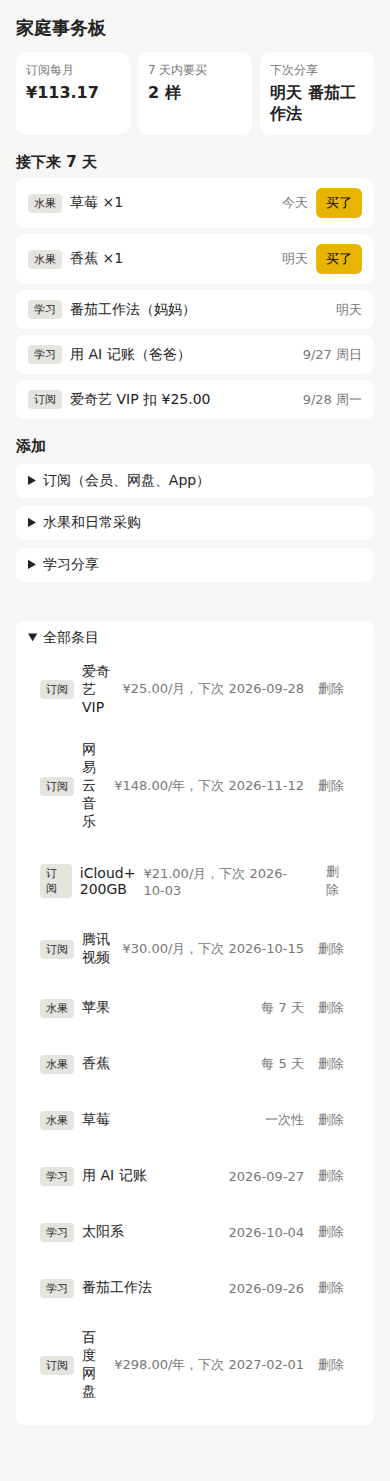
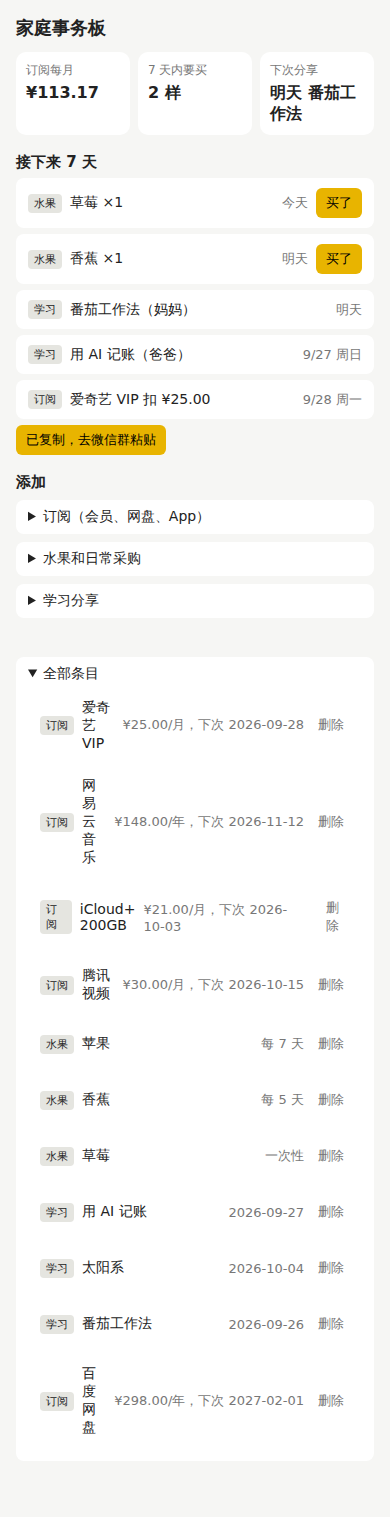
feat(app): share the shopping list to the family chat instead of a claim button
A two-browser experiment showed each phone keeps its own localStorage,
so a claim button could never be seen by the other phone. The family
already shares a chat group, so the page now copies a ready-to-paste
'I am buying' message, with a select-to-copy fallback when the page
is opened over LAN http and has no clipboard API.

Claude-Session: https://claude.ai/code/session_01S12fALyHBVYc1Msq9vQCZa

diff --git a/app/app.js b/app/app.js
@@ -1,5 +1,5 @@
 // 浏览器这一层：读写 localStorage、解析表单、渲染。所有输入校验都放在这里，domain.js 只收合法数据。
-import { emptyState, apply, agenda, summary, todayISO, addDays, nextRenewal, yuan } from './domain.js';
+import { emptyState, apply, agenda, summary, todayISO, addDays, nextRenewal, yuan, shoppingMessage } from './domain.js';
 
 const KEY = 'family-agenda:v1';
 const $ = sel => document.querySelector(sel);
@@ -66,6 +66,8 @@ function render() {
     ),
   );
   $('[data-testid=empty]').hidden = state.items.length > 0;
+  $('[data-testid=share]').hidden = shoppingMessage(state, today) === null;
+  $('[data-testid=share]').textContent = '我去买，复制到家庭群';
 
   $('[data-testid=all-items]').replaceChildren(
     ...state.items.map(it => {
@@ -110,6 +112,21 @@ document.querySelectorAll('form[data-kind]').forEach(form => {
     }
   });
 });
+
+// 手机通过局域网 http 打开时不是安全上下文，没有 navigator.clipboard，这时把文字摆出来让人长按复制。
+$('[data-testid=share]').onclick = async () => {
+  const text = shoppingMessage(state, todayISO());
+  const box = $('[data-testid=share-text]');
+  try {
+    await navigator.clipboard.writeText(text);
+    $('[data-testid=share]').textContent = '已复制，去微信群粘贴';
+    box.hidden = true;
+  } catch {
+    box.value = text;
+    box.hidden = false;
+    box.select();
+  }
+};
 
 $('[data-testid=seed]').onclick = () => {
   const t = todayISO();

diff --git a/test/domain.test.js b/test/domain.test.js
@@ -1,6 +1,6 @@
 import { test } from 'node:test';
 import assert from 'node:assert/strict';
-import { emptyState, apply, summary, agenda, addMonths, nextRenewal, todayISO } from '../app/domain.js';
+import { emptyState, apply, summary, agenda, addMonths, nextRenewal, todayISO, shoppingMessage } from '../app/domain.js';
 
 const TODAY = '2026-09-25';
 
@@ -74,6 +74,12 @@ test('删除条目后它从日程和总额里消失', () => {
   const s = apply(load(family()), { type: 'remove', id: 's1' });
   assert.equal(summary(s, TODAY).monthlyCents, 8833 - 2500);
   assert.ok(!agenda(s, TODAY).some(r => r.id === 's1'));
+});
+
+test('P7 发到家庭群的采购消息列出 7 天内要买的东西，买过的不在里面', () => {
+  const s = apply(load(family()), { type: 'bought', id: 'p1', on: TODAY });
+  assert.equal(shoppingMessage(s, TODAY), '【我去买】9/25\n· 草莓 ×1\n· 香蕉 ×1');
+  assert.equal(shoppingMessage(emptyState(), TODAY), null);
 });
 
 test('P6 北京时间早上 7 点，今天是本地日期而不是 UTC 的前一天', () => {

diff --git a/app/index.html b/app/index.html
@@ -28,6 +28,7 @@
   label { display: grid; gap: 2px; font-size: 12px; color: var(--muted); }
   input, select { font: inherit; font-size: 15px; padding: 7px; border: 1px solid var(--line); border-radius: 6px; background: var(--bg); color: var(--ink); }
   .empty { color: var(--muted); font-size: 14px; }
+  textarea { width: 100%; margin-top: 8px; font: inherit; font-size: 14px; padding: 8px; border-radius: 6px; border: 1px solid var(--line); background: var(--card); color: var(--ink); }
   .error { color: #c33; font-size: 13px; min-height: 1em; }
 </style>
 </head>
@@ -43,6 +44,8 @@
 
   <h2>接下来 7 天</h2>
   <ul data-testid="agenda"></ul>
+  <button data-testid="share" hidden>我去买，复制到家庭群</button>
+  <textarea data-testid="share-text" readonly hidden rows="5"></textarea>
   <p class="empty" data-testid="empty" hidden>
     还没有任何条目。<button data-testid="seed">载入示例数据</button>
   </p>

diff --git a/app/domain.js b/app/domain.js
@@ -65,6 +65,13 @@ export function summary(state, today) {
   };
 }
 
+// 家里共享的是微信群，不是这份数据。发一条消息占住“我去买”，比在各自手机上点认领更能防止买重。
+export function shoppingMessage(state, today) {
+  const rows = agenda(state, today).filter(row => row.kind === 'purchase');
+  if (rows.length === 0) return null;
+  return [`【我去买】${Number(today.slice(5, 7))}/${Number(today.slice(8))}`, ...rows.map(r => `· ${r.text}`)].join('\n');
+}
+
 export function nextRenewal(sub, today) {
   const step = sub.cycle === 'monthly' ? 1 : 12;
   const [sy, sm] = sub.start.split('-').map(Number);
